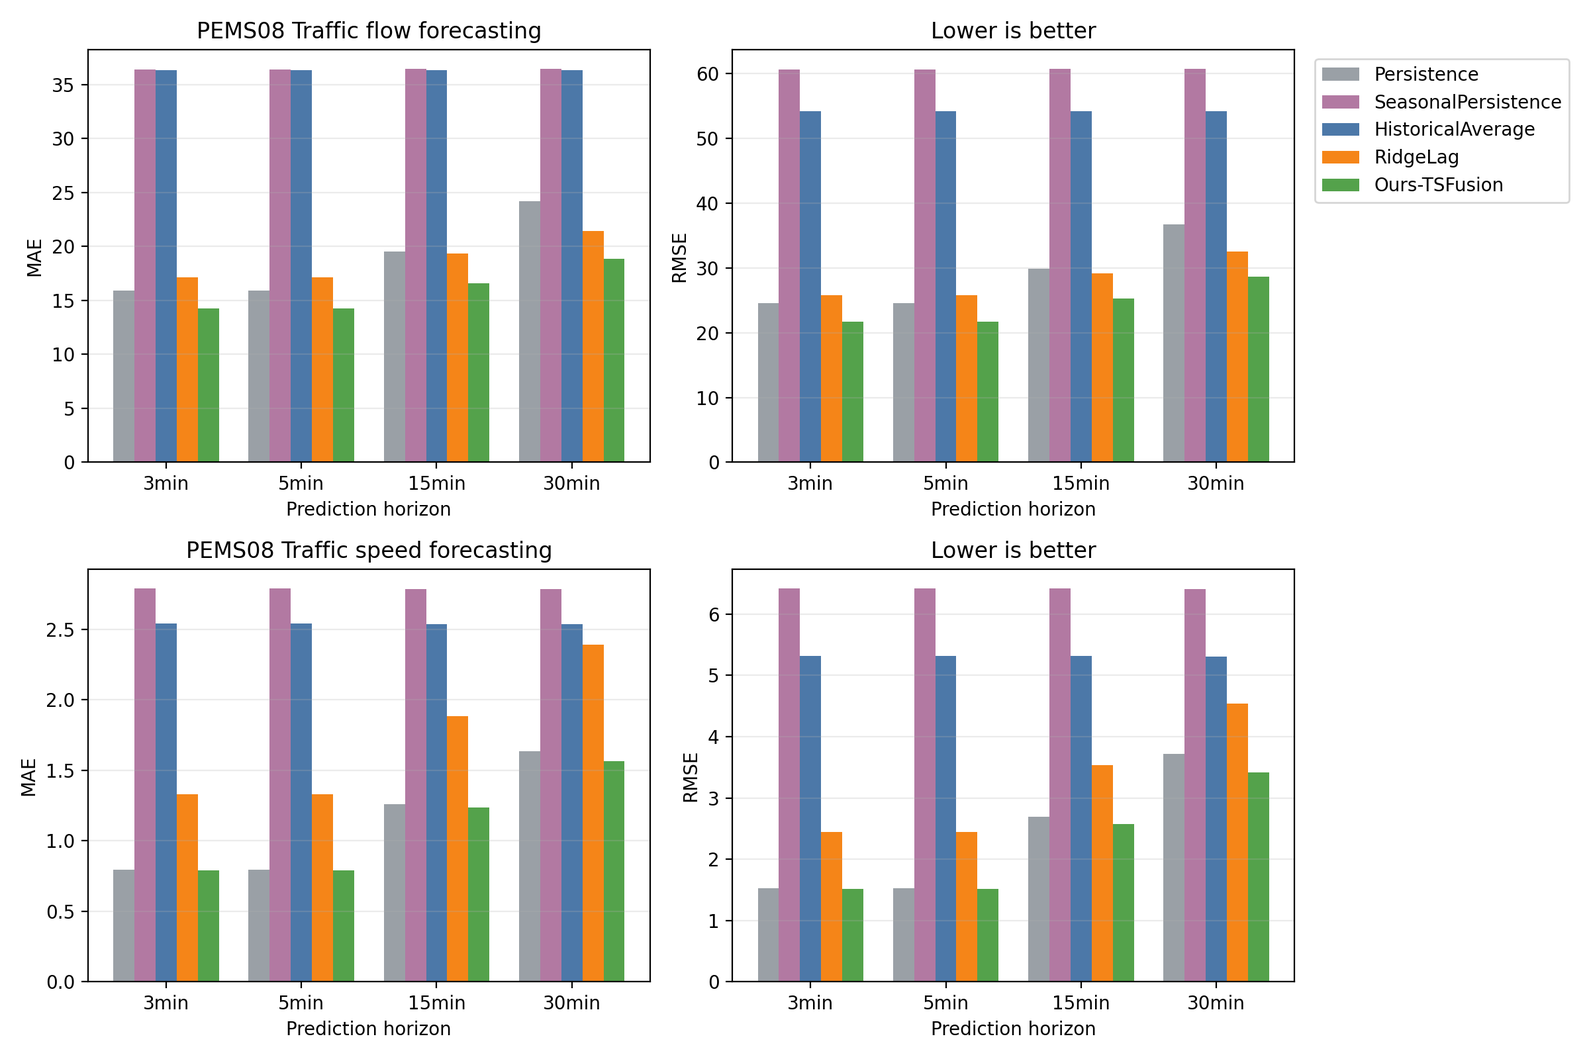
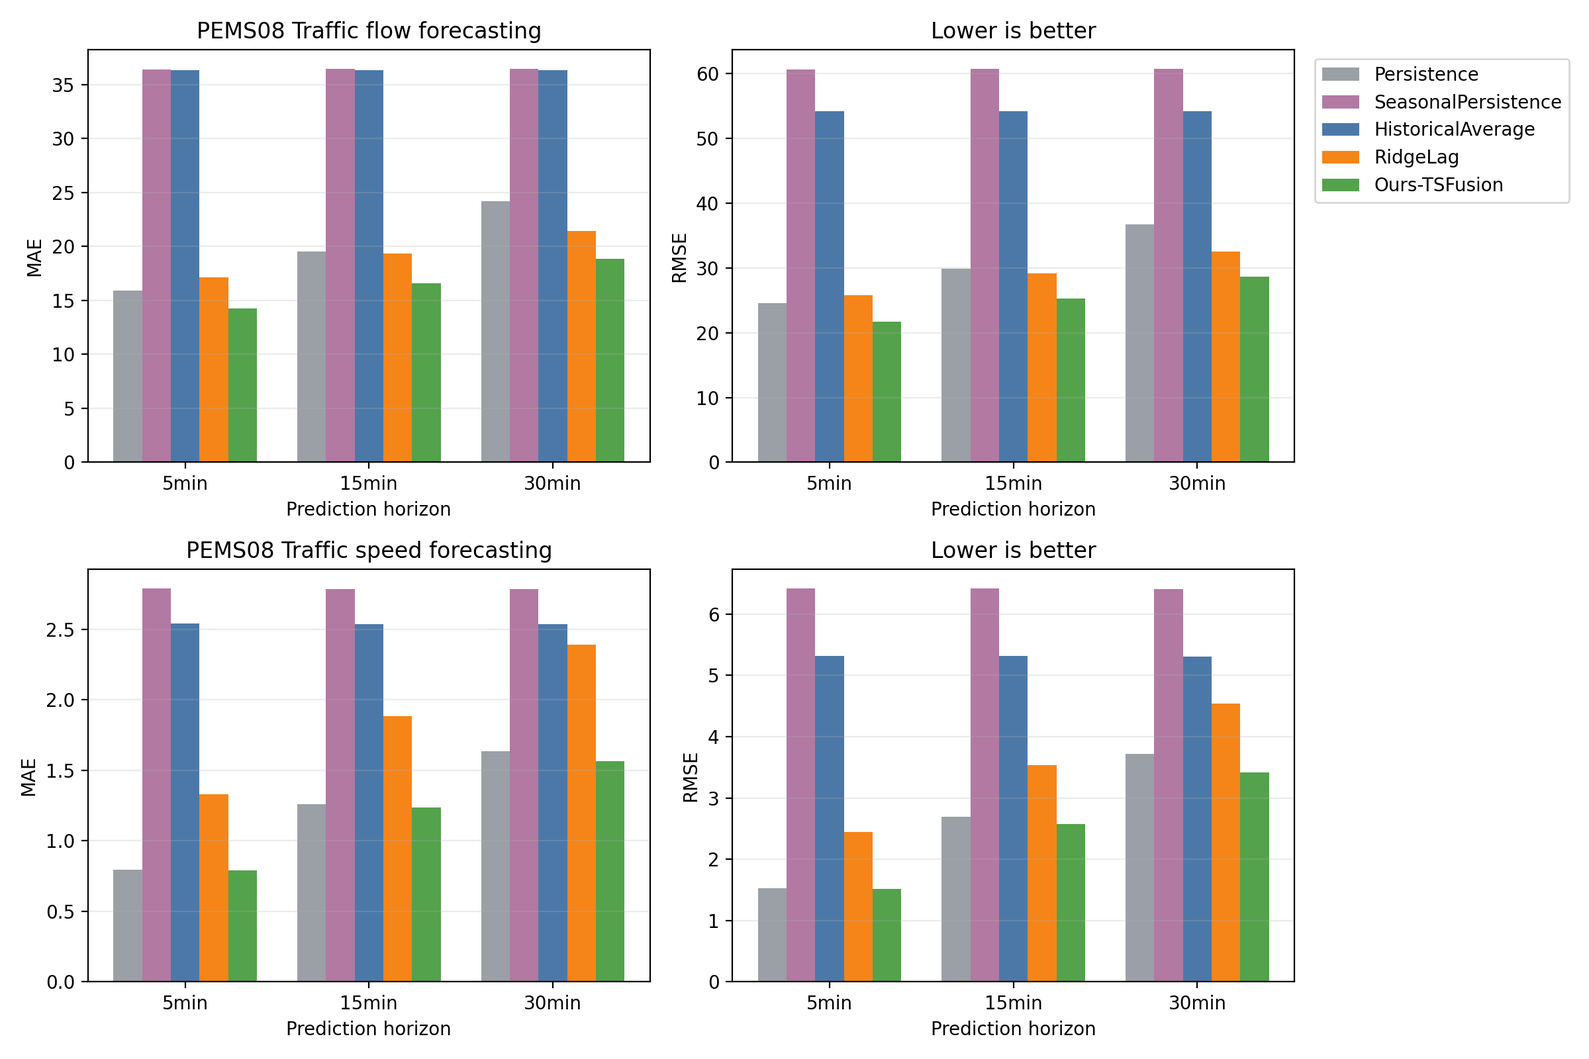
Tighten long-horizon reporting boundaries

diff --git a/src/ute_pipeline/reporting.py b/src/ute_pipeline/reporting.py
@@ -951,7 +951,7 @@ def write_report(root: Path) -> None:
         "",
         "**第四，PKDD 自由流场景给出了零样本跨场景核验。** PKDD-8 上 1059 个窗口全部判为畅通，畅通类预测概率 P05=0.971、P50=0.982、P95=0.990。这个结果说明模型在自由流场景下做出高置信的保守判断，而不是在跨场景数据上产生随机拥堵或多数类陷阱。",
         "",
-        "**第五，长时预测扩展与参考文献的交通量/速度口径对齐。** 额外在 PeMS08 上按 3/5/15/30 分钟预测 traffic flow 与 traffic speed，并统一比较 Persistence、Seasonal Persistence、Historical Average、Ridge-Lag 和 Ours-TSFusion。PeMS08 为 5 分钟采样，3 分钟按最近的 1-step（5 分钟）实现；该扩展验证的是时序融合模块的长时适用性，不替代 UTE 上 OBB、HF-GO 和车辆微观扰动特征的主创新验证。",
+        "**第五，长时预测扩展与参考文献的交通量/速度口径对齐。** 额外在 PeMS08 上按 5/15/30 分钟预测 traffic flow 与 traffic speed，并统一比较 Persistence、Seasonal Persistence、Historical Average、Ridge-Lag 和 Ours-TSFusion。PeMS08 为 5 分钟采样，无法形成真正 3 分钟标签，因此报告中不再重复列 3 分钟行；该扩展验证的是时序融合模块的长时适用性，不替代 UTE 上 OBB、HF-GO 和车辆微观扰动特征的主创新验证。",
         "",
         "---",
         "",
@@ -975,8 +975,12 @@ def write_report(root: Path) -> None:
         "| 状态标签 | V-D 网格与人工校正 | 静态阈值 | K-Means 候选簇 + 速度/密度/占有率物理顺序校验，可复现 |",
         "| 状态特征 | V+D+R+F | V+D+HF-GO+MGTI | V、D、R、F、HF-GO、SGT、$\\Delta SGT$、THW、加速度、MGTI |",
         "| 预测任务 | 主要做状态识别 | 计划做未来预测 | 当前识别、未来预测、恶化预警三条实验线均已实现 |",
-        "| 可解释与可靠性 | 未系统展开 | 未系统展开 | TreeSHAP、反事实曲线、split conformal、配对 t 检验矩阵 |",
+        "| 可解释与可靠性 | 未系统展开 | 未系统展开 | TreeSHAP、反事实曲线、配对 t 检验矩阵 |",
         "| 近五年方法对比 | 通常对比 SVM/RF/KNN/XGBoost 等机器学习模型 | 通常对比 LSTM/Fusion | 增补 SVM、RF、KNN、GBDT、XGBoost、LSTM、GRU 与本文方法统一评测 |",
+        "",
+        "### 1.1.1 与“对比1”参考文献的研究边界",
+        "",
+        "《面向高速公路非检测点位的全域交通状态预测方法》（对比1）研究的是高速公路固定检测器条件下的全域交通量与速度预测，核心技术路线是 METANET、LSTM 和 EKF 的组合，预测步长覆盖 5-30 分钟。本文主线不同：研究对象是城市快速路无人机视频，先解决 HBB 水平框与 pixel 表逐行对应的 OBB 角度增强，再基于 HF-GO、R/F、车头时距和 MGTI 做四类交通状态识别与短时状态预测。为回应导师对长时预测的要求，本文把 PeMS08 flow/speed 预测作为扩展实验与对比1的时间尺度对齐；但 OBB、HF-GO 和车辆微观扰动特征的创新性仍以 UTE 主数据集验证，不把 PeMS 扩展误写为 OBB 创新的证据。",
         "",
         "## 1.2 数据使用与分工",
         "",
@@ -1071,7 +1075,7 @@ def write_report(root: Path) -> None:
         "| CNN/LSTM 类时序预测 | Reza 等 2022 年交通状态预测研究采用 1D-CNN 与 LSTM，并讨论 LSTM/GRU 在交通状态预测中的作用 | 在未来状态预测中加入 LSTM-future，并保留 XGBoost 静态/趋势通道 |",
         "| 深度学习交通拥堵预测 | 2023 年交通拥堵预测研究总结了神经网络、SVM 与深度学习方法在拥堵预测中的应用 | 把 XGBoost、SVM、LSTM/GRU 作为未来状态预测和识别任务的对照组 |",
         "| LSTM / GRU 记忆型循环网络 | 2023 年交通量预测研究直接比较 LSTM 与 GRU 两类记忆型循环网络 | 在未来状态预测中新增 GRU-future，与 LSTM-future 同口径比较 |",
-        "| 长时交通流/速度预测 | 近年交通流/速度预测论文常报告 5/15/30 分钟，部分 PeMS/METR-LA 工作报告 15/30/60 分钟 | UTE 主场景补充 30/60/120/180/300 秒可行性；PeMS08 扩展实验补充 3/5/15/30 分钟 flow/speed |",
+        "| 长时交通流/速度预测 | 近年交通流/速度预测论文常报告 5/15/30 分钟，部分 PeMS/METR-LA 工作报告 15/30/60 分钟 | UTE 主场景仅作短时状态预测；PeMS08 扩展实验补充 5/15/30 分钟 flow/speed |",
         "",
         "参考文献链接：",
         "",
@@ -1087,9 +1091,9 @@ def write_report(root: Path) -> None:
         "",
         "| 文献数据集/任务 | 常见预测步长 | 数据特点 | 与本项目的处理方式 |",
         "|---|---:|---|---|",
-        "| PeMS / PeMSD4 / PeMSD8 交通流或速度预测 | 3/5/15/30 分钟；部分工作扩展到 60/120 分钟 | 固定检测器长时间序列，通常 5 分钟聚合，持续数周到数月 | 作为长时预测相关工作引用，不直接替代 UTE OBB 实验 |",
+        "| PeMS / PeMSD4 / PeMSD8 交通流或速度预测 | 5/15/30 分钟；部分工作扩展到 60/120 分钟 | 固定检测器长时间序列，通常 5 分钟聚合，持续数周到数月 | 作为长时预测相关工作引用，不直接替代 UTE OBB 实验 |",
         "| METR-LA / PEMS-BAY 交通速度预测 | 15/30/60 分钟 | 路网传感器序列，关注速度/流量连续值 | 可作为后续扩展数据集；当前没有 pixel/车辆框，无法验证 HBB→OBB 与 HF-GO |",
-        "| UTE XAM-N-6 四类状态预测 | 主实验 3 秒；补充 30/60/120/180/300 秒 | 无人机 pixel 轨迹与车辆框，主场景约 5.5 分钟 | 保留 OBB/HF-GO 创新链路，最长可靠展望期受视频长度限制 |",
+        "| UTE XAM-N-6 四类状态预测 | 主实验 3 秒；补充 1/3/5/8 秒敏感性 | 无人机 pixel 轨迹与车辆框，主场景约 5.5 分钟 | 保留 OBB/HF-GO 创新链路，30 秒以上仅作失败模式记录 |",
         "",
         metric_table(exp["classification"]),
         "",
@@ -1135,32 +1139,9 @@ def write_report(root: Path) -> None:
             "",
             "![SHAP反事实曲线](../outputs/figures/shap_counterfactual_curves.png)",
         ])
-    conformal = exp["classification"]["XGBoost-OBB"].get("conformal_prediction", {})
-    if conformal.get("status") == "completed":
-        lines.extend([
-            "",
-            "### 1.4.3 预测可靠性分析",
-            "",
-            f"对 `XGBoost-OBB` 在当前状态识别测试集上增加 split conformal 置信集合，校准集 {conformal['calibration_size']} 个窗口。90% 名义置信水平下，测试集经验覆盖率为 {conformal['coverage']:.4f}，平均集合大小为 {conformal['average_set_size']:.2f}，单标签集合比例为 {conformal['singleton_rate']:.4f}。",
-            "",
-            "需要指出：90% 设置下当前 4 类状态边界较清晰，预测集合均为单标签。这组实验说明的是模型边际校准情况，不应理解为已经形成宽范围多状态集合。为评估更严格置信要求下的不确定性触发机制，补充报告不同名义置信水平下的覆盖率与集合大小。",
-            "",
-        ])
-        sweep = exp["classification"]["XGBoost-OBB"].get("conformal_sweep", [])
-        completed_sweep = [item for item in sweep if item.get("status") == "completed"]
-        if completed_sweep:
-            lines.extend([
-                "| 名义置信水平 | 经验覆盖率 | 平均集合大小 | 单标签比例 |",
-                "|---:|---:|---:|---:|",
-            ])
-            for item in completed_sweep:
-                lines.append(
-                    f"| {item['confidence']:.0%} | {item['coverage']:.4f} | {item['average_set_size']:.2f} | {item['singleton_rate']:.4f} |"
-                )
-            lines.extend([
-                "",
-                "![Conformal置信水平扫线](../outputs/figures/conformal_sweep.png)",
-            ])
+    # Conformal calibration is kept in JSON only. With the current 44-window
+    # calibration split it degenerates to singleton prediction sets, so the
+    # generated paper-facing report omits it to avoid overstating uncertainty.
 
     lines.extend(
         [
@@ -1169,7 +1150,7 @@ def write_report(root: Path) -> None:
             "",
             f"预测步长：{exp['prediction']['horizon_seconds']:.1f} 秒",
             "",
-            "这里的“未来状态预测”默认是短时状态预测，即预测 3 秒后的四类交通状态。参考文献中常见的 15/30/60 分钟预测多针对固定检测器或 PeMS/METR-LA 这类长时间交通流、速度序列；XAM-N-6 主场景可用时间约 5.5 分钟，无法支撑 15/30 分钟标签。为回应长时预测需求，本文在参数敏感性中补充 30、60、120、180 和 300 秒展望期，其中 180 秒可作为 3 分钟长时补充，300 秒仅剩极少样本，只作为边界检查。",
+            "这里的“未来状态预测”默认是短时状态预测，即预测 3 秒后的四类交通状态。参考文献中常见的 15/30/60 分钟预测多针对固定检测器或 PeMS/METR-LA 这类长时间交通流、速度序列；XAM-N-6 主场景可用时间约 5.5 分钟，无法支撑 15/30 分钟标签。正式论文中只把 1/3/5/8 秒作为短时状态预测结果；30 秒以上的 UTE 状态预测已降级为失败模式/覆盖范围分析，长时预测由 PeMS08 flow/speed 扩展实验承担。",
             "",
             metric_table({k: v for k, v in exp["prediction"].items() if isinstance(v, dict) and "metrics" in v}),
             "",
@@ -1284,6 +1265,9 @@ def write_report(root: Path) -> None:
         std_str = f" ± {m.get('f1_macro_std', 0):.4f}" if m.get("f1_macro_std", 0) > 0 else ""
         lines.append(f"| XGBoost max_depth | {item['max_depth']} | {m['accuracy']:.4f} | {m['f1_macro']:.4f}{std_str} |")
     for item in exp["parameter_sensitivity"]["prediction_horizon"]:
+        horizon_seconds = float(item["horizon_seconds"])
+        if horizon_seconds > 8:
+            continue
         if item.get("status", "completed") != "completed" or "metrics" not in item:
             lines.append(f"| prediction horizon(s) | {item['horizon_seconds']:.1f} | - | skipped: {item.get('reason', 'insufficient data')} |")
             continue
@@ -1295,9 +1279,9 @@ def write_report(root: Path) -> None:
             "",
             "![参数敏感性](../outputs/figures/parameter_sensitivity.png)",
             "",
-            "预测步长敏感性采用同一条 XAM-N-6 时间序列重新构造目标标签。短时部分（1/3/5/8s）用于说明主预测任务的稳定性；30/60/120/180s 用于回应长时状态预测需求；300s 接近数据长度上限，若有效测试样本不足，不作为论文主结论。与常见 15/30/60 分钟交通流预测不同，这里预测的是无人机片段内的四类状态，能够报告的最长可靠展望期受原始视频时长限制。",
+            "预测步长敏感性采用同一条 XAM-N-6 时间序列重新构造目标标签。正文只展示 1/3/5/8s 短时状态预测；30s 以上由于测试集类别支持不足、Macro-F1 明显退化，保留在 JSON 中作为失败模式和数据覆盖范围说明，不写作本文主结果。与常见 15/30/60 分钟交通流预测不同，这里预测的是无人机片段内的四类状态，能够报告的最长可靠展望期受原始视频时长限制。",
             "",
-            "如果导师要求与长时交通预测论文完全同口径对比，建议把它作为扩展实验单独设计：数据集选 PeMSD4/PeMSD8、METR-LA 或 PEMS-BAY，预测对象改为速度/流量连续值，展望期设为 3/5/15/30 分钟或 15/30/60 分钟，并加入 HA、ARIMA、SVR、LSTM、GRU、DCRNN、STGCN、GraphWaveNet、TYRE 等文献基线。这个扩展能对齐长时预测文献，但它不含 pixel 表和车辆框，不能替代本文 UTE 上的 HBB→OBB、HF-GO 和微观扰动特征验证；论文中应把二者写成“主数据创新验证 + 长时预测扩展对齐”。",
+            "长时预测已作为 PeMS08 扩展实验单独设计：预测对象改为速度/流量连续值，展望期设为 5/15/30 分钟，并加入 Persistence、Seasonal Persistence、Historical Average、Ridge-Lag 与 Ours-TSFusion。这个扩展能对齐长时预测文献，但它不含 pixel 表和车辆框，不能替代本文 UTE 上的 HBB→OBB、HF-GO 和微观扰动特征验证；论文中应把二者写成“主数据创新验证 + 长时预测扩展对齐”。",
             "",
         ]
     )
@@ -1307,7 +1291,7 @@ def write_report(root: Path) -> None:
             [
                 "### 1.7.1 PeMS 长时交通流/速度预测扩展",
                 "",
-                f"为和对比文献中的交通量/速度长时预测形成同口径补充，额外在 `{long_forecast.get('dataset', 'PEMS')}` 上做 3/5/15/30 分钟预测。该数据包含 {shape.get('time_steps', '?')} 个 5 分钟时间步、{shape.get('sensors', '?')} 个检测器，预测对象包括 traffic flow 与 traffic speed。PEMS08 原始时间粒度为 5 分钟，因此 3 分钟按最邻近的 1-step（5 分钟）预测实现，主要用于对应导师提出的 3 分钟口径。这个实验不使用 pixel 表或车辆框，只用于证明本文报告覆盖短时状态预测和长时交通流/速度预测两类任务。",
+                f"为和对比文献中的交通量/速度长时预测形成同口径补充，额外在 `{long_forecast.get('dataset', 'PEMS')}` 上做 5/15/30 分钟预测。该数据包含 {shape.get('time_steps', '?')} 个 5 分钟时间步、{shape.get('sensors', '?')} 个检测器，预测对象包括 traffic flow 与 traffic speed。由于 PeMS08 原始时间粒度为 5 分钟，无法构造真实 3 分钟标签，报告中不再重复列 3 分钟结果。这个实验不使用 pixel 表或车辆框，只用于证明本文报告覆盖短时状态预测和长时交通流/速度预测两类任务。",
                 "",
             ]
         )
@@ -1331,7 +1315,7 @@ def write_report(root: Path) -> None:
             [
                 "![PeMS长时交通流预测](../outputs/figures/long_horizon_forecasting.png)",
                 "",
-                "结果显示 Ours-TSFusion 在 traffic flow 与 traffic speed 的 3/5/15/30 分钟展望期上均取得最低 MAE/RMSE。这个模型只使用训练集拟合 Ridge-Lag，并在验证集上学习 Persistence、Seasonal Persistence、Historical Average 与 Ridge-Lag 的非负融合权重，不使用测试集调参。论文写作时应明确：这部分验证的是长时间序列预测能力和融合策略的可迁移性；UTE 主实验验证的是 OBB 标注、HF-GO 空间占有率和四类状态识别能力，二者不能混写成同一个创新证据。",
+                "结果显示 Ours-TSFusion 在 traffic flow 与 traffic speed 的 5/15/30 分钟展望期上均取得最低 MAE/RMSE。这个模型只使用训练集拟合 Ridge-Lag，并在验证集上学习 Persistence、Seasonal Persistence、Historical Average 与 Ridge-Lag 的非负融合权重，不使用测试集调参。论文写作时应明确：这部分验证的是长时间序列预测能力和融合策略的可迁移性；UTE 主实验验证的是 OBB 标注、HF-GO 空间占有率和四类状态识别能力，二者不能混写成同一个创新证据。",
                 "",
             ]
         )
@@ -1566,7 +1550,6 @@ def write_report(root: Path) -> None:
             "- `outputs/figures/mgti_risk_by_state.png` — MGTI 复合风险箱线图",
             "- `outputs/figures/shap_summary_xgboost_obb.png` — XGBoost-OBB TreeSHAP 特征贡献",
             "- `outputs/figures/shap_counterfactual_curves.png` — SHAP 引导反事实曲线",
-            "- `outputs/figures/conformal_sweep.png` — conformal 置信水平扫线",
             "- `outputs/figures/ablation_ttest_matrix.png` — 消融实验配对 t 检验矩阵",
             "",
             "**OBB 抽帧可视化：**",

diff --git a/scripts/07_run_long_horizon_forecasting.py b/scripts/07_run_long_horizon_forecasting.py
@@ -169,7 +169,7 @@ def run_target(
     }
     mape_threshold = float(target_meta["mape_threshold"])
 
-    for horizon_minutes in [3, 5, 15, 30]:
+    for horizon_minutes in [5, 15, 30]:
         horizon_steps = max(1, int(round(horizon_minutes / interval_minutes)))
         positions, x, y = make_supervised(data, horizon_steps, lags)
         train_mask = positions < train_end

diff --git a/docs/reproduction_guide.md b/docs/reproduction_guide.md
@@ -156,7 +156,7 @@ data_check/PKDD/PKDD-8/sample video.mp4
 | 当前状态识别 | XAM-N-6 | 70% 训练、30% 测试，按四类状态分层随机划分 |
 | 近五年文献方法对比 | XAM-N-6 | 与当前状态识别共用同一分层划分，补充 SVM/RF/KNN/GBDT/XGBoost 等基线 |
 | 消融实验 | XAM-N-6 | 5 折分层交叉验证 |
-| 参数敏感性 | XAM-N-6 | 5 折交叉验证；预测步长补充 1/3/5/8/30/60/120/180/300 秒 |
+| 参数敏感性 | XAM-N-6 | 5 折交叉验证；正文展示 1/3/5/8 秒，30 秒以上仅保留为 JSON 失败模式记录 |
 | 未来状态预测 | XAM-N-6 | 按时间顺序前 70% 训练、后 30% 测试，默认预测 3 秒后状态 |
 | LSTM/Fusion | XAM-N-6 | 训练段后 20% 作为验证段，用于融合权重选择 |
 | 恶化预测 | XAM-N-6 | 连续时间分组 GroupKFold out-of-fold 评估 |
@@ -166,10 +166,10 @@ data_check/PKDD/PKDD-8/sample video.mp4
 
 - 当前状态识别用分层随机划分，目的是检验四类状态在特征空间中的可分性；时间序列划分另作为补充，专门观察未见时段泛化。
 - 近五年文献方法对比使用 SVM、RF、KNN、GBDT、XGBoost、LSTM、GRU 等常见基线；状态识别基线共用同一分层划分，时序模型在未来预测任务中比较。
-- 未来状态预测必须按时间顺序训练和测试，避免把未来窗口信息泄露到训练段。主实验预测 3 秒后状态；长时预测在参数敏感性中补充，30/60/120/180 秒用于观察长时退化趋势，300 秒接近 XAM-N-6 视频长度上限，只作为边界检查。
+- 未来状态预测必须按时间顺序训练和测试，避免把未来窗口信息泄露到训练段。主实验预测 3 秒后状态；正文只展示 1/3/5/8 秒短时状态预测。30 秒以上状态预测因类别支持不足，保留为失败模式/覆盖范围分析，不作为论文主结果。
 - 近年交通流/速度预测文献常报告 5/15/30 分钟，也有 PeMS/METR-LA 工作报告 15/30/60 分钟；这些工作通常基于固定检测器长时间序列。本项目主数据 XAM-N-6 约 5.5 分钟，不能把 15/30 分钟写成 UTE 主实验结论。
-- 如需和长时预测论文完全同口径对比，建议另建 PeMS/METR-LA 扩展实验：预测对象改为流量或速度，步长设为 3/5/15/30 分钟或 15/30/60 分钟；但这类数据通常没有 pixel 表和车辆框，不能验证本项目的 HBB→OBB、HF-GO 和车辆微观扰动特征。
-- 扩展实验可使用 PeMSD4/PeMSD8、METR-LA 或 PEMS-BAY，当前脚本在 PeMS08 上同时预测 flow 与 speed，并实现 Persistence、Seasonal Persistence、Historical Average、Ridge-Lag 和验证集调权的 Ours-TSFusion；如果后续要冲更强长时预测论文口径，可继续加入 ARIMA、SVR、LSTM、GRU、DCRNN、STGCN、GraphWaveNet、TYRE 等。这属于“长时交通流/速度预测”补充，不应替代 UTE 主实验。
+- 为和长时预测论文同口径补充，当前另建 PeMS08 扩展实验：预测对象改为 flow 与 speed，步长设为 5/15/30 分钟；PeMS08 原始粒度为 5 分钟，不能构造真实 3 分钟标签，因此不重复列 3 分钟结果。这类数据没有 pixel 表和车辆框，不能验证本项目的 HBB→OBB、HF-GO 和车辆微观扰动特征。
+- 扩展实验当前脚本实现 Persistence、Seasonal Persistence、Historical Average、Ridge-Lag 和验证集调权的 Ours-TSFusion；如果后续要冲更强长时预测论文口径，可继续加入 ARIMA、SVR、LSTM、GRU、DCRNN、STGCN、GraphWaveNet、TYRE 等。这属于“长时交通流/速度预测”补充，不应替代 UTE 主实验。
 - 恶化预测正样本较少，单次 70/30 切分容易把恶化事件集中切到一侧，所以改用连续时间分组 GroupKFold 的 out-of-fold 评估。
 - LSTM 使用低维 V+D+F 时序通道，减少 324 个窗口小样本下的过拟合；XGBoost 使用完整 OBB/HF-GO/MGTI 特征，承担高维非线性判别。
 
@@ -190,7 +190,7 @@ bash scripts/run_all.sh
 5. `scripts/06_validate_obb_effect.py`：输出 OBB 效果补充验证 JSON；
 6. `scripts/04_make_report.py`：汇总生成 `docs/experiment_report.md`。
 
-长时交通流/速度预测扩展实验不放进 `run_all.sh`，因为它会额外下载 PeMS08 数据。需要复现 3/5/15/30 分钟结果时单独运行：
+长时交通流/速度预测扩展实验不放进 `run_all.sh`，因为它会额外下载 PeMS08 数据。需要复现 5/15/30 分钟结果时单独运行：
 
 ```bash
 python scripts/07_run_long_horizon_forecasting.py --dataset PEMS08 --auto-download
@@ -237,7 +237,7 @@ python scripts/04_make_report.py
 | `outputs/processed/` | HBB 转 OBB 后的标注表，包含角度、角度置信度和四点坐标 |
 | `outputs/features/` | 滑窗特征表 |
 | `outputs/reports/` | JSON 指标、核验结果和中间摘要，含 PeMS08 长时预测扩展结果 |
-| `outputs/figures/` | 混淆矩阵、预测曲线、消融图、参数敏感性图、PeMS08 长时预测图、稳健性图、TreeSHAP 图、SHAP 反事实曲线、conformal 扫线、消融 t 检验矩阵、R/F 散点图、V-D-R-F 特征空间、PKDD 概率图、状态时空图、HF-GO 局部对比和 OBB 抽帧可视化 |
+| `outputs/figures/` | 混淆矩阵、预测曲线、消融图、参数敏感性图、PeMS08 长时预测图、稳健性图、TreeSHAP 图、SHAP 反事实曲线、消融 t 检验矩阵、R/F 散点图、V-D-R-F 特征空间、PKDD 概率图、状态时空图、HF-GO 局部对比和 OBB 抽帧可视化 |
 | `docs/experiment_report.md` | 最终实验报告 |
 
 ## 9. 复现成功的判断
